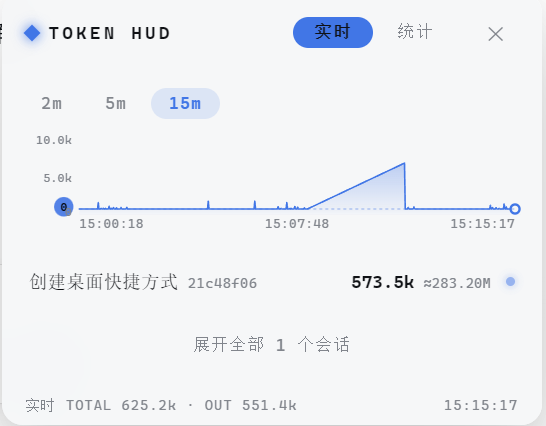
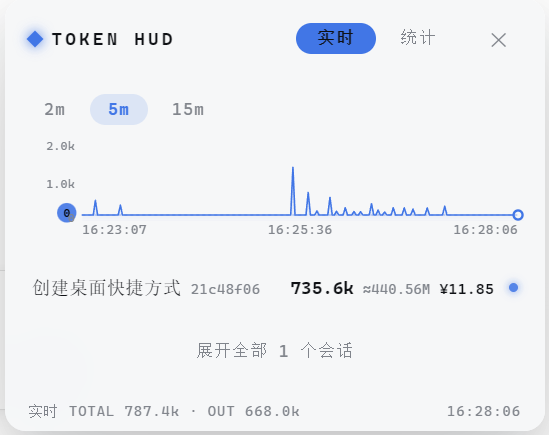
release: v0.2.0 — new screenshots, rewritten usage guide (gestures/position menu/cost), changelog

diff --git a/lib/client.js b/lib/client.js
@@ -18,81 +18,81 @@ window.__ModuleLoader__.load({
 			document.head.appendChild(tag);
 		}
 		var TokenHud_module_css_default = {
-			"viewBar": "_7TU4uW_viewBar",
-			"barFill": "_7TU4uW_barFill",
-			"budgetText": "_7TU4uW_budgetText",
-			"panel": "_7TU4uW_panel",
-			"balanceRow": "_7TU4uW_balanceRow",
-			"rowName": "_7TU4uW_rowName",
-			"rangeButton": "_7TU4uW_rangeButton",
-			"statBarFill": "_7TU4uW_statBarFill",
-			"rowHead": "_7TU4uW_rowHead",
 			"chipDot": "_7TU4uW_chipDot",
-			"rowCost": "_7TU4uW_rowCost",
-			"budgetRow": "_7TU4uW_budgetRow",
-			"budgetTrack": "_7TU4uW_budgetTrack",
-			"chipTps": "_7TU4uW_chipTps",
-			"chipValue": "_7TU4uW_chipValue",
-			"statsTotalSub": "_7TU4uW_statsTotalSub",
-			"sparkCurrent": "_7TU4uW_sparkCurrent",
-			"barTrack": "_7TU4uW_barTrack",
-			"closeButton": "_7TU4uW_closeButton",
-			"statLabel": "_7TU4uW_statLabel",
-			"footBalance": "_7TU4uW_footBalance",
-			"tokenPanelIn": "_7TU4uW_tokenPanelIn",
-			"rowTokensWrap": "_7TU4uW_rowTokensWrap",
-			"rowPulse": "_7TU4uW_rowPulse",
-			"statCost": "_7TU4uW_statCost",
-			"row": "_7TU4uW_row",
-			"tokenPanelPulse": "_7TU4uW_tokenPanelPulse",
+			"chipCumulative": "_7TU4uW_chipCumulative",
 			"titleMark": "_7TU4uW_titleMark",
+			"sparkCurrent": "_7TU4uW_sparkCurrent",
+			"budgetRow": "_7TU4uW_budgetRow",
+			"chipLabel": "_7TU4uW_chipLabel",
+			"closeButton": "_7TU4uW_closeButton",
+			"pressMenuItem": "_7TU4uW_pressMenuItem",
+			"rowDetail": "_7TU4uW_rowDetail",
+			"footRight": "_7TU4uW_footRight",
+			"balanceValue": "_7TU4uW_balanceValue",
+			"statsTotalSub": "_7TU4uW_statsTotalSub",
+			"statsBody": "_7TU4uW_statsBody",
+			"statsSectionHead": "_7TU4uW_statsSectionHead",
+			"statRow": "_7TU4uW_statRow",
+			"chipTps": "_7TU4uW_chipTps",
+			"statBarFill": "_7TU4uW_statBarFill",
+			"footTps": "_7TU4uW_footTps",
+			"empty": "_7TU4uW_empty",
+			"barFill": "_7TU4uW_barFill",
+			"pressSubMenu": "_7TU4uW_pressSubMenu",
+			"budgetFill": "_7TU4uW_budgetFill",
+			"toast": "_7TU4uW_toast",
+			"detailLabel": "_7TU4uW_detailLabel",
+			"spark": "_7TU4uW_spark",
+			"body": "_7TU4uW_body",
+			"foot": "_7TU4uW_foot",
+			"viewBar": "_7TU4uW_viewBar",
+			"rowSub": "_7TU4uW_rowSub",
+			"budgetLabel": "_7TU4uW_budgetLabel",
+			"rowTokens": "_7TU4uW_rowTokens",
+			"statsTotal": "_7TU4uW_statsTotal",
+			"statsSection": "_7TU4uW_statsSection",
 			"footPrice": "_7TU4uW_footPrice",
 			"host": "_7TU4uW_host",
-			"budgetFill": "_7TU4uW_budgetFill",
-			"balanceValue": "_7TU4uW_balanceValue",
-			"sparkTick": "_7TU4uW_sparkTick",
-			"sparkEmpty": "_7TU4uW_sparkEmpty",
-			"detailItem": "_7TU4uW_detailItem",
 			"pressMenuLabel": "_7TU4uW_pressMenuLabel",
-			"viewButton": "_7TU4uW_viewButton",
 			"rowCumulative": "_7TU4uW_rowCumulative",
+			"budgetText": "_7TU4uW_budgetText",
+			"chip": "_7TU4uW_chip",
+			"rowName": "_7TU4uW_rowName",
+			"rowTokensWrap": "_7TU4uW_rowTokensWrap",
+			"mono": "_7TU4uW_mono",
 			"statValue": "_7TU4uW_statValue",
-			"rowDetail": "_7TU4uW_rowDetail",
+			"rowCost": "_7TU4uW_rowCost",
+			"sparkYTick": "_7TU4uW_sparkYTick",
+			"statCost": "_7TU4uW_statCost",
+			"rangeBar": "_7TU4uW_rangeBar",
+			"tokenPanelPulse": "_7TU4uW_tokenPanelPulse",
+			"moreButton": "_7TU4uW_moreButton",
+			"panel": "_7TU4uW_panel",
+			"sparkWrap": "_7TU4uW_sparkWrap",
+			"barTrack": "_7TU4uW_barTrack",
+			"sparkEmpty": "_7TU4uW_sparkEmpty",
+			"budgetTrack": "_7TU4uW_budgetTrack",
+			"sparkTick": "_7TU4uW_sparkTick",
+			"chipValue": "_7TU4uW_chipValue",
+			"title": "_7TU4uW_title",
+			"row": "_7TU4uW_row",
+			"footBalance": "_7TU4uW_footBalance",
+			"statsTotalLabel": "_7TU4uW_statsTotalLabel",
+			"detailItem": "_7TU4uW_detailItem",
+			"pressMenuCaret": "_7TU4uW_pressMenuCaret",
+			"pressMenu": "_7TU4uW_pressMenu",
 			"rowTitle": "_7TU4uW_rowTitle",
 			"statsSparkWrap": "_7TU4uW_statsSparkWrap",
-			"statsSectionHead": "_7TU4uW_statsSectionHead",
-			"empty": "_7TU4uW_empty",
-			"toast": "_7TU4uW_toast",
-			"rangeBar": "_7TU4uW_rangeBar",
-			"title": "_7TU4uW_title",
-			"statRow": "_7TU4uW_statRow",
-			"chip": "_7TU4uW_chip",
-			"pressSubMenu": "_7TU4uW_pressSubMenu",
-			"pressMenu": "_7TU4uW_pressMenu",
-			"chipLabel": "_7TU4uW_chipLabel",
-			"statsBody": "_7TU4uW_statsBody",
-			"statsTotal": "_7TU4uW_statsTotal",
-			"statBarTrack": "_7TU4uW_statBarTrack",
-			"detailLabel": "_7TU4uW_detailLabel",
-			"footTps": "_7TU4uW_footTps",
-			"pressMenuCaret": "_7TU4uW_pressMenuCaret",
-			"rowTokens": "_7TU4uW_rowTokens",
-			"statsTotalLabel": "_7TU4uW_statsTotalLabel",
-			"head": "_7TU4uW_head",
-			"sparkWrap": "_7TU4uW_sparkWrap",
-			"spark": "_7TU4uW_spark",
-			"chipCumulative": "_7TU4uW_chipCumulative",
-			"pressMenuItem": "_7TU4uW_pressMenuItem",
-			"sparkYTick": "_7TU4uW_sparkYTick",
-			"body": "_7TU4uW_body",
-			"moreButton": "_7TU4uW_moreButton",
-			"footRight": "_7TU4uW_footRight",
-			"rowSub": "_7TU4uW_rowSub",
-			"mono": "_7TU4uW_mono",
-			"foot": "_7TU4uW_foot",
 			"detailLine": "_7TU4uW_detailLine",
-			"statsSection": "_7TU4uW_statsSection",
-			"budgetLabel": "_7TU4uW_budgetLabel"
+			"viewButton": "_7TU4uW_viewButton",
+			"balanceRow": "_7TU4uW_balanceRow",
+			"rowHead": "_7TU4uW_rowHead",
+			"head": "_7TU4uW_head",
+			"tokenPanelIn": "_7TU4uW_tokenPanelIn",
+			"statBarTrack": "_7TU4uW_statBarTrack",
+			"rowPulse": "_7TU4uW_rowPulse",
+			"statLabel": "_7TU4uW_statLabel",
+			"rangeButton": "_7TU4uW_rangeButton"
 		};
 		//#endregion
 		//#region lib/client/TokenHud.js

diff --git a/README.en.md b/README.en.md
@@ -3,18 +3,18 @@
 # dsh-token-panel
 
 [![License: MIT](https://img.shields.io/badge/license-MIT-green?style=flat-square)](LICENSE)
-[![Version](https://img.shields.io/badge/version-0.1.0-blue?style=flat-square)](https://github.com/juhe291/dsh-token-panel/releases)
+[![Version](https://img.shields.io/badge/version-0.2.0-blue?style=flat-square)](https://github.com/juhe291/dsh-token-panel/releases)
 [![Platform](https://img.shields.io/badge/platform-web-cyan?style=flat-square)](https://github.com/juhe291/dsh-token-panel)
 [![Topic: dsh-plugin](https://img.shields.io/badge/topic-dsh--plugin-8A2BE2?style=flat-square)](https://github.com/topics/dsh-plugin)
 
-**Real-time token consumption HUD for [DeepSeek Harness](https://github.com/deepseek-ai/deepseek-harness) — live session pressure, cumulative usage, history curves, and per-day/per-month statistics, in a corner dashboard that follows your current conversation.**
+**Real-time token consumption HUD for [DeepSeek Harness](https://github.com/deepseek-ai/deepseek-harness) — live session pressure, per-session cost, history curves, and per-day/per-month statistics, in a draggable corner dashboard that follows your current conversation.**
 
 🌐 [**中文**](README.md) ｜ **English**
 
 </div>
 
 <p align="center">
-  <img src="assets/screenshot.png" alt="dsh-token-panel UI preview" width="520">
+  <img src="assets/screenshot.png" alt="dsh-token-panel live view" width="520">
 </p>
 
 ---
@@ -27,26 +27,32 @@ A compact pill in the bottom-right corner shows the total token pressure in real
 
 | Feature | Description |
 |---|---|
-| Session list | One row per session: **title + current context pressure + cumulative usage**; titles come from the DSH session-title service |
+| Session list | One row per session: **title + current context pressure + cumulative usage + session cost**; titles come from the DSH session-title service |
 | Session details | Click a row: input / output / cache-read / cache-write, pressure / projected / capacity, estimated cost, context-usage progress bar (turns red above 85%) |
-| Live curves | Per-session SVG area chart with real time ticks (HH:MM:SS) and **2m / 5m / 15m** range switching |
-| Follows current session | Only the open conversation is shown by default; historic sessions collapse behind "Show all" — never crowded |
+| Live curves | Per-session SVG area chart with auto-scaling Y axis (1/2/2.5/5×10ⁿ rounding + hysteresis, zero when idle), gridlines, dashed leader with live value pill, and **2m / 5m / 15m** range switching |
+| Follows current session | Only the open conversation is shown by default; historic sessions collapse behind "Show all" (survive restarts) |
 | Empty-session filter | Fresh conversations with 0 tokens are hidden entirely |
+| TPS | Generation speed (t/s) shown on the pill and the footer |
 
 ### 📊 Stats View
 
 | Feature | Description |
 |---|---|
 | Daily / Monthly | Independent tabs listing every day / month with bars, token counts and estimated cost |
-| Trend curves | SVG curves over days / months with M/D date ticks |
+| Trend curves | SVG curves over days / months with M/D date ticks and Y-axis labels |
 | Cumulative total | Total tokens consumed plus the ≈¥ estimated cost |
+| Budget & balance | Monthly budget bar when `budgetMonthly` is set (red over budget); auto-fetched DeepSeek account balance |
 | Durable | Usage is written to per-day JSONL logs on disk — **survives restarts** |
 
-> ⚠ **Number scale note**: the stats view's "Daily / Monthly" figures are **cumulative historical consumption** (input + output + **cache reads** summed); cache reads usually dominate, so a single day can reach hundreds of millions of tokens (displayed with the M suffix). The live view, by contrast, shows **current context pressure** (tokens in context right now, typically tens of thousands — k suffix). **These are two different quantities**; seeing "live 400k / stats 100M" is expected, not a bug. The `≈` number on a session row is that session's cumulative consumption, matching the stats-view scale.
+<p align="center">
+  <img src="assets/screenshot-stats.png" alt="dsh-token-panel stats view" width="520">
+</p>
+
+> ⚠ **Number scale note**: the stats view's "Daily / Monthly" figures are **cumulative historical consumption** (input + output + **cache reads** summed); cache reads usually dominate, so a single day can reach hundreds of millions of tokens (displayed with the M suffix). The live view, by contrast, shows **current context pressure** (tokens in context right now, typically tens of thousands — k suffix). **These are two different quantities**; seeing "live 400k / stats 100M" is expected, not a bug. The `≈` number on a session row is that session's cumulative consumption, and the `¥` figure is its estimated cost — both matching the stats-view scale.
 
 ### 💰 Cost Estimation
 
-Priced with the **official DeepSeek rates** (CNY per 1M tokens), billing cache hits, uncached input and output separately. Display-only — the provider dashboard is authoritative.
+Priced with the **official DeepSeek rates** (CNY per 1M tokens), billing cache hits, uncached input and output separately. Display-only — the provider dashboard is authoritative. Peak/off-peak pricing supported (see Configuration).
 
 ---
 
@@ -72,19 +78,33 @@ dsh plugin --profile web add C:\path\to\dsh-token-panel
 
 ## Usage
 
-### Panel interactions
+### Panel interactions (three gestures, zero conflicts)
 
-1. **Open/collapse**: click the **TOKEN pill** (cyan pulsing dot + pressure + cumulative + TPS) to expand the panel; **✕** collapses it (and resets the position to the bottom-right corner)
-2. **Switch views**: **Live | Stats** at the panel head
-3. **Drag to move**: hold the "TOKEN HUD" title (or the pill) and drag anywhere — the position is remembered across reloads
-4. **Long-press reset**: hold the pill still for ~0.6s to open a menu → "↺ Back to corner" restores the default position; "Cancel" dismisses it
-5. The three gestures never conflict: **click = open, hold = menu, drag = move**
+1. **Click the pill** to open the panel (pill shows pressure + ≈cumulative + TPS)
+2. **Drag** the pill or the panel header to move — you may drag the panel **past the screen edges** (any side), but a grabbable header strip always stays visible; the position is remembered across reloads
+3. **Long-press 0.6s** (pill or panel header) opens the position menu:
+
+```
+┌──────────────────────┐
+│ ⌟ Bottom-right        │ ← icon/text follow the saved default
+│ ✛ Position ▸          │
+│ Cancel                │
+└──────────────────────┘
+   Position submenu:
+   ├ ⌜ Top-left / ⌝ Top-right / ⌞ Bottom-left / ⌟ Bottom-right  ← presets
+   └ ✛ Custom position…                                         ← drag & release to save
+```
+
+- **Back to default**: the first item's icon and label follow the saved default ("Back to default · Top-right", "Back to custom position")
+- **Corner presets**: click to move there AND save as the default (uses the actual panel size, so bottom corners truly touch the edge)
+- **Custom position**: choose it, then drag the panel anywhere and release — saved as the new default, used on every page load
+- **✕** closes the panel without moving it (use the long-press menu to reset)
 
 ### Live view
 
-- The bold number on a row = **current context pressure** (what is in context right now); the grey `≈` number = **cumulative usage** (everything consumed historically, including cache reads)
-- Click a session row for details (input / output / cache read / cache write, pressure / projected / capacity, cost, context-usage bar) and its consumption curve
-- Top and per-session curves: **auto-scaling Y axis** (nice-number rounding with hysteresis, drops to zero when idle), time ticks on X, and a dashed leader + live value label at the latest point
+- Session rows: **bold number = current context pressure** (k scale); grey `≈` = cumulative usage (M scale, incl. cache reads); **green `¥` = that session's estimated cost**
+- Click a row for details (input / output / cache read / cache write, pressure / projected / capacity, cost, context-usage bar) and its consumption curve
+- Curves: **auto-scaling Y axis** (1/2/2.5/5×10ⁿ rounding with hysteresis, zero when idle) + gridlines + a dashed leader with a live value pill at the latest point + time ticks on X
 - 2m / 5m / 15m window switching
 - The panel follows the conversation you are viewing; "Show all" reveals historic sessions (survive restarts)
 
@@ -197,7 +217,7 @@ A: The panel follows your current conversation and hides empty (0-token) session
 
 ## License
 
-[MIT](LICENSE)
+[MIT](LICENSE) · Changelog: [CHANGELOG.md](CHANGELOG.md)
 
 ---
 

diff --git a/CHANGELOG.md b/CHANGELOG.md
@@ -1,0 +1,46 @@
+# Changelog
+
+本文件记录 dsh-token-panel 的用户可见更新。格式基于 [Keep a Changelog](https://keepachangelog.com/zh-CN/1.1.0/)。
+
+## [0.2.0] - 2026-08-14
+
+### 新增
+
+- **会话花费显示**：实时视图每个会话行显示绿色 `¥` 估算花费，当前对话一眼可见
+- **面板拖拽系统**：
+  - 按住胶囊或面板头部栏拖动，位置跨刷新记忆
+  - 允许把面板拖出屏幕边缘（上下左右），但始终保留一条可抓取的头部栏
+  - 指针捕获 + 4px 阈值，快速拖拽不中断、单击不误触
+- **长按位置菜单**（按住 0.6 秒）：
+  - 回到默认位置（图标与文字随默认位置动态更新）
+  - 「位置」二级菜单：**左上 / 右上 / 左下 / 右下**四角预设（按面板实际尺寸精确贴边）
+  - **自定义位置**：选择后拖到任意位置松手即保存为默认，每次加载从那里出现
+  - 菜单图标统一为 SVG 描边风格（与 DSH 设计语言一致）
+- **Y 轴坐标**：所有曲线带纵坐标刻度与浅色网格线
+- **自动缩放 Y 轴**：1/2/2.5/5×10ⁿ 取整 + 滞回（上升立即跟随、下降滞后），空闲时归零
+- **当前值指示线**：曲线最新点带虚线引导线与实时数值胶囊标签
+- **峰谷计价模式**：`priceMode: peak-offpeak` 按北京时间峰谷自动切换价格
+- **TPS 显示**：胶囊与底部栏实时显示生成速度（t/s）
+- **账户余额**：统计视图自动拉取 DeepSeek 余额（5 分钟缓存）
+- **月预算**：`budgetMonthly` 配置后显示预算进度条，超支变红
+- **历史会话持久化**：会话注册表落盘，重启后「展开全部」的历史会话不丢失
+
+### 修复
+
+- 曲线空闲时不再维持压力水平线，改为消耗增量（归零）
+- 时间刻度不再被 SVG 边界裁切（自适应锚点 + 底部留白）
+- 小数刻度保留一位（0.5 不再显示为 1）
+- 统计视图切换即时刷新
+- 拖拽与单击/长按手势冲突（单击打不开、拖后需点两次等）
+- 预设角落偏上（改用实际尺寸计算）
+- 拖出屏幕后无法抓回（把手保留可见）
+- 单点打开面板（指针捕获时机修正）
+
+### 变更
+
+- 点「✕」收起面板不再重置位置（原位置保持；归位走长按菜单）
+- 统计视图「按日/按月」显示全部日期与月份
+
+## [0.1.0] - 2026-08-14
+
+- 初版发布：实时视图（会话压力/累计/详情/曲线）、统计视图（按日/按月/持久化日志）、DeepSeek 官方价成本估算、中英双语界面
